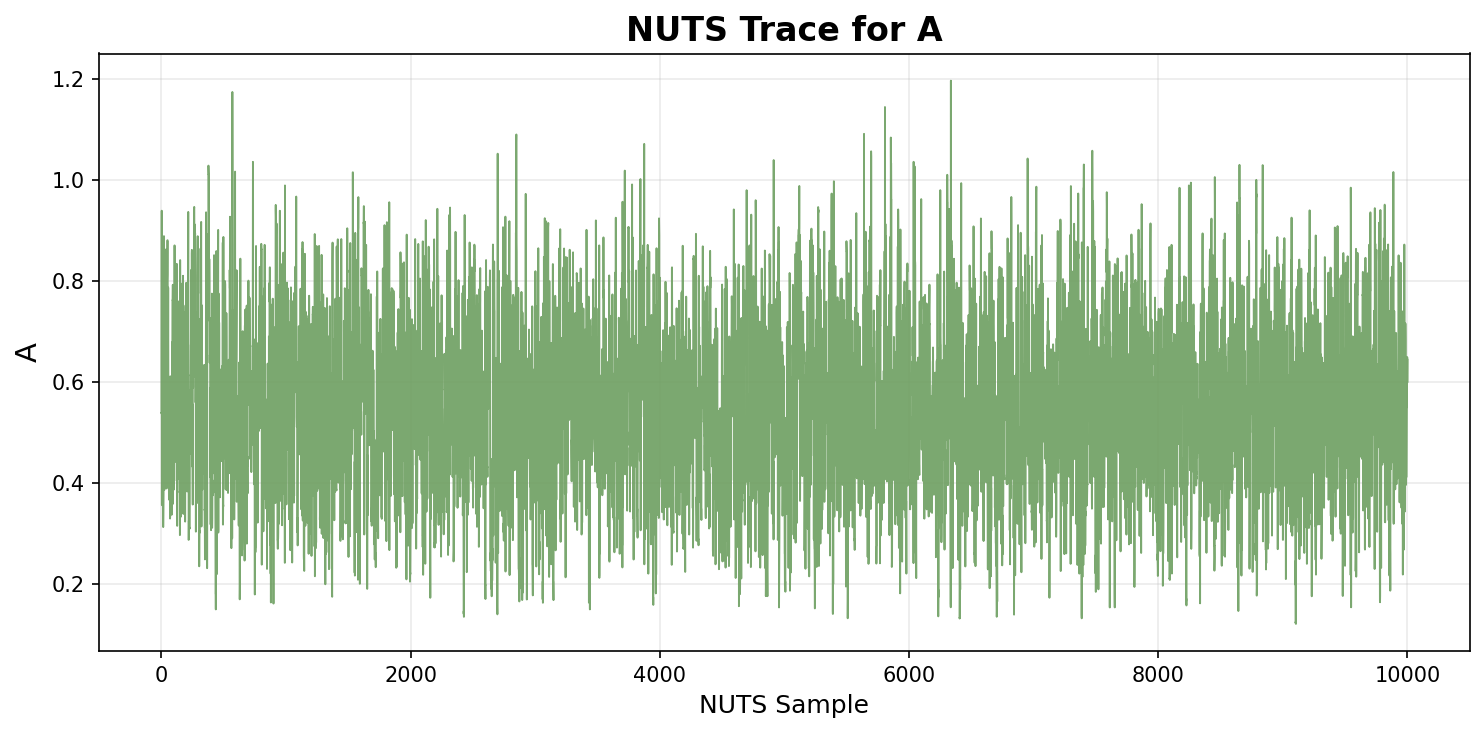
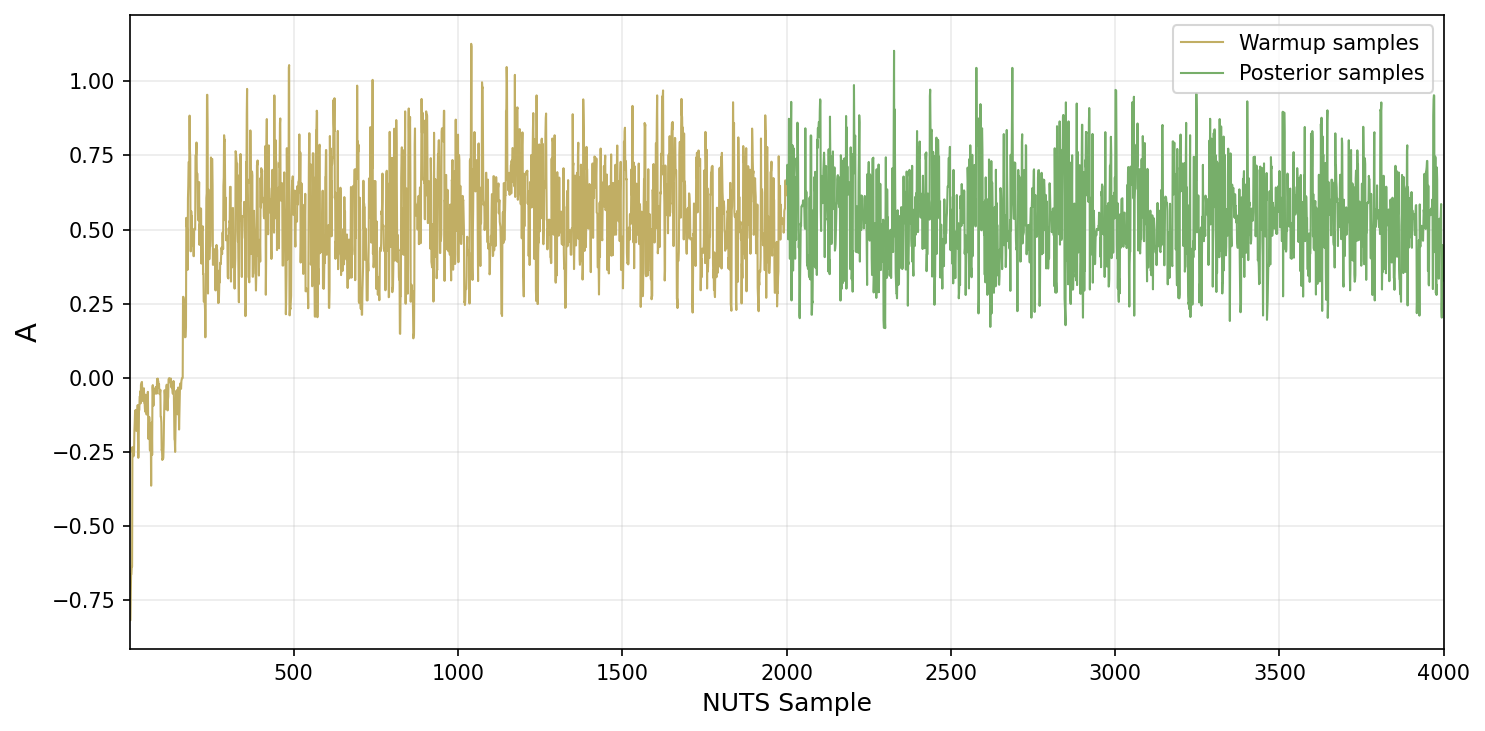
figure updates

diff --git a/demos/hybrid_bonding/electromigration.py b/demos/hybrid_bonding/electromigration.py
@@ -26,18 +26,31 @@ sys.path.insert(0, os.path.abspath(os.path.join(os.path.dirname(__file__), '../.
 
 import stratcona
 
-def plot_nuts_trace(chain_samples, parameter_label, filename, max_samples=10000):
+def plot_nuts_trace(chain_samples, parameter_label, filename, max_samples=1000, warmup_samples=None):
     chain_samples = np.asarray(chain_samples)
     single_chain = chain_samples[0, :max_samples]
-    draws = np.arange(1, len(single_chain) + 1)
 
     fig, ax = plt.subplots(figsize=(10, 5))
-    ax.plot(draws, single_chain, linewidth=0.9, alpha=0.9, color="#6d9f60")
+
+    if warmup_samples is not None:
+        warmup_samples = np.asarray(warmup_samples)
+        warmup_chain = warmup_samples[0, :max_samples]
+        warmup_draws = np.arange(1, len(warmup_chain) + 1)
+        ax.plot(warmup_draws, warmup_chain, linewidth=1.0, alpha=1, color="#c1ae64", label='Warmup samples')
+
+        post_draws = np.arange(len(warmup_chain) + 1, len(warmup_chain) + len(single_chain) + 1)
+        ax.plot(post_draws, single_chain, linewidth=1.0, alpha=1, color="#77ae6a", label='Posterior samples')
+        ax.set_xlim(1, len(warmup_chain) + len(single_chain))
+    else:
+        draws = np.arange(1, len(single_chain) + 1)
+        ax.plot(draws, single_chain, linewidth=1.0, alpha=0.9, color="#77ae6a", label='Posterior samples')
 
     ax.set_xlabel('NUTS Sample', fontsize=12)
     ax.set_ylabel(parameter_label, fontsize=14)
-    ax.set_title(f'NUTS Trace for {parameter_label}', fontsize=16, fontweight='bold')
+  #  ax.set_title(f'NUTS Trace for {parameter_label}', fontsize=16, fontweight='bold')
     ax.grid(True, alpha=0.25)
+    if warmup_samples is not None:
+        ax.legend(loc='upper right')
     fig.tight_layout()
     fig.savefig(filename, dpi=150, bbox_inches='tight')
     print(f"NUTS trace plot saved as '{filename}'")
@@ -134,20 +147,23 @@ def hybrid_bonding_electromigration():
     # -------- INFERENCE ON THE MODEL -------------------------------
     #################################################################
     start_time = time.time()
-    inference_result = am.do_inference(measured_data, return_details=True)
+    inference_result = am.do_inference(measured_data, return_details=True, collect_warmup=True)
     print(f'Inference completed in {time.time() - start_time:.2f} seconds')
     print("Posterior hyper-latent beliefs:")
     print(am.relmdl.hyl_beliefs)
 
     for hyl in hyls:
         trace_samples = np.asarray(inference_result['samples'][hyl])
+        warmup_trace_samples = np.asarray(inference_result['warmup_samples'][hyl])
         stats = inference_result['convergence_stats'][hyl]
-        print(
-            f"{hyl} NUTS diagnostics: ESS={float(stats['ess']):.2f}, "
-            f"split-Rhat={float(stats['srhat']):.4f}"
-        )
         trace_filename = f'electromigration_{hyl}_nuts_trace.png'
-        plot_nuts_trace(trace_samples, hyl, trace_filename)
+        plot_nuts_trace(
+            trace_samples,
+            hyl,
+            trace_filename,
+            max_samples=2000,
+            warmup_samples=warmup_trace_samples,
+        )
 
     #################################################################
     # -------- POSTERIOR ENTROPY CALCULATION ------------------------

diff --git a/stratcona/engine/inference.py b/stratcona/engine/inference.py
@@ -233,10 +233,33 @@ def marginalize_v_naive(rng_key, spm, batch_dims: tuple[int, int, int], test_dim
 
 
 def inference_model(model, hyl_info, observed_data, rng_key, num_samples: int = 10_000, num_chains: int = 4,
-                    return_details: bool = False):
+                    return_details: bool = False, collect_warmup: bool = False):
     kernel = NUTS(model)
     sampler = MCMC(kernel, num_warmup=2_000, num_samples=num_samples, num_chains=num_chains, progress_bar=True)
-    sampler.run(rng_key, measured=observed_data, extra_fields=('potential_energy',))
+
+    warmup_samples = None
+    if collect_warmup:
+        # Use sequential chain execution when collecting warmup to avoid repeated pmap mesh issues
+        sampler = MCMC(
+            kernel,
+            num_warmup=2_000,
+            num_samples=num_samples,
+            num_chains=num_chains,
+            chain_method='sequential',
+            progress_bar=True,
+        )
+        warmup_key, sample_key = rand.split(rng_key)
+        sampler.warmup(
+            warmup_key,
+            measured=observed_data,
+            extra_fields=('potential_energy',),
+            collect_warmup=True,
+        )
+        warmup_samples = sampler.get_samples(group_by_chain=True)
+        sampler.run(sample_key, measured=observed_data, extra_fields=('potential_energy',))
+    else:
+        sampler.run(rng_key, measured=observed_data, extra_fields=('potential_energy',))
+
     samples = sampler.get_samples(group_by_chain=True)
 
     convergence_stats = {}
@@ -257,6 +280,7 @@ def inference_model(model, hyl_info, observed_data, rng_key, num_samples: int = 
         return {
             'new_prior': new_prior,
             'samples': samples,
+            'warmup_samples': warmup_samples,
             'convergence_stats': convergence_stats,
             'extra_fields': extra_info,
             'diverging': diverging,

diff --git a/stratcona/manager.py b/stratcona/manager.py
@@ -35,12 +35,17 @@ class AnalysisManager:
         else:
             return self.relmdl.sample(rng, self.test.dims, self.test.conds, num, self.relmdl.observes)
 
-    def do_inference(self, observations, test: TestDef = None, auto_update_prior=True, return_details=False):
+    def do_inference(self, observations, test: TestDef = None, auto_update_prior=True, return_details=False, collect_warmup=False):
         rng = self._derive_key()
         test_info = test if test is not None else self.test
         inf_mdl = partial(self.relmdl.spm, test_info.dims, test_info.conds, self.relmdl.hyl_beliefs, self.relmdl.param_vals)
         inference_result = inference_model(
-            inf_mdl, self.relmdl.hyl_info, observations, rng, return_details=return_details
+            inf_mdl,
+            self.relmdl.hyl_info,
+            observations,
+            rng,
+            return_details=return_details,
+            collect_warmup=collect_warmup,
         )
         new_prior = inference_result['new_prior'] if return_details else inference_result
         if auto_update_prior:
